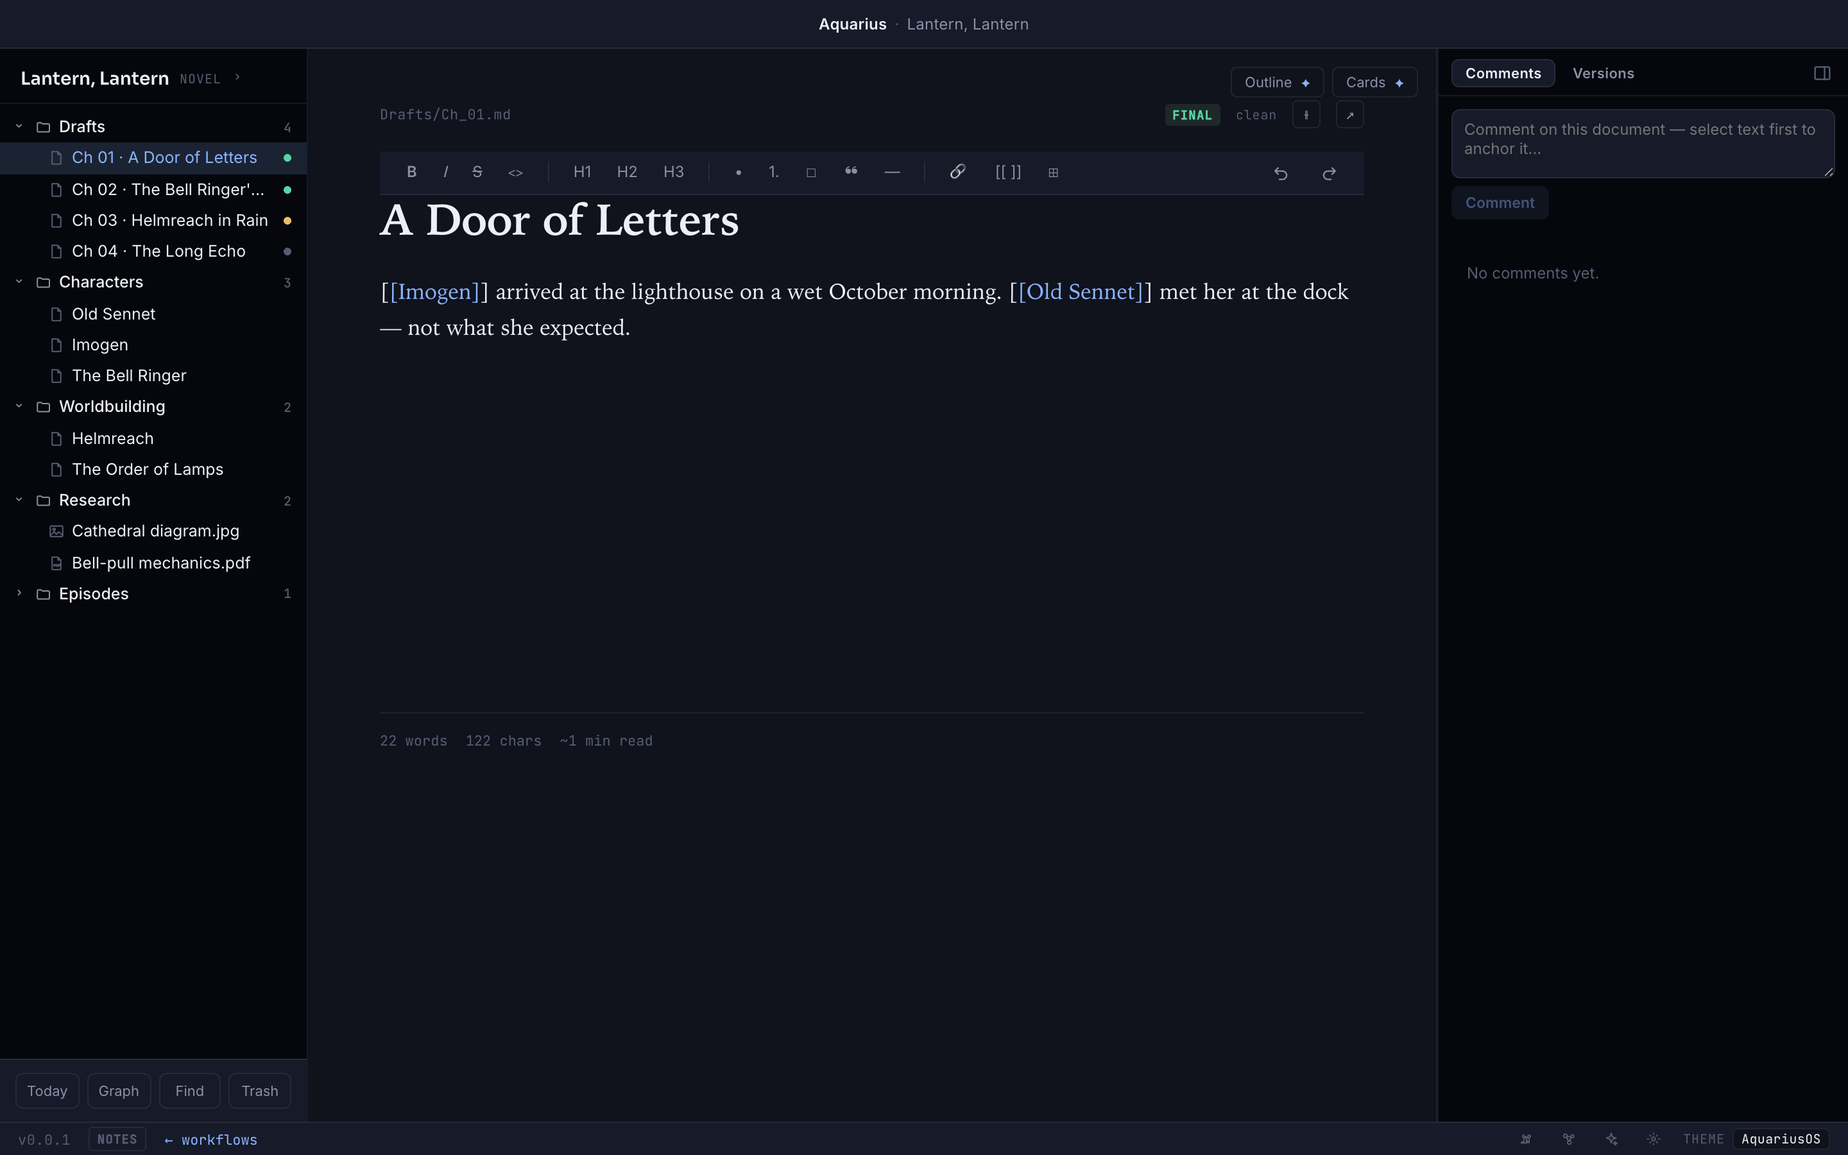
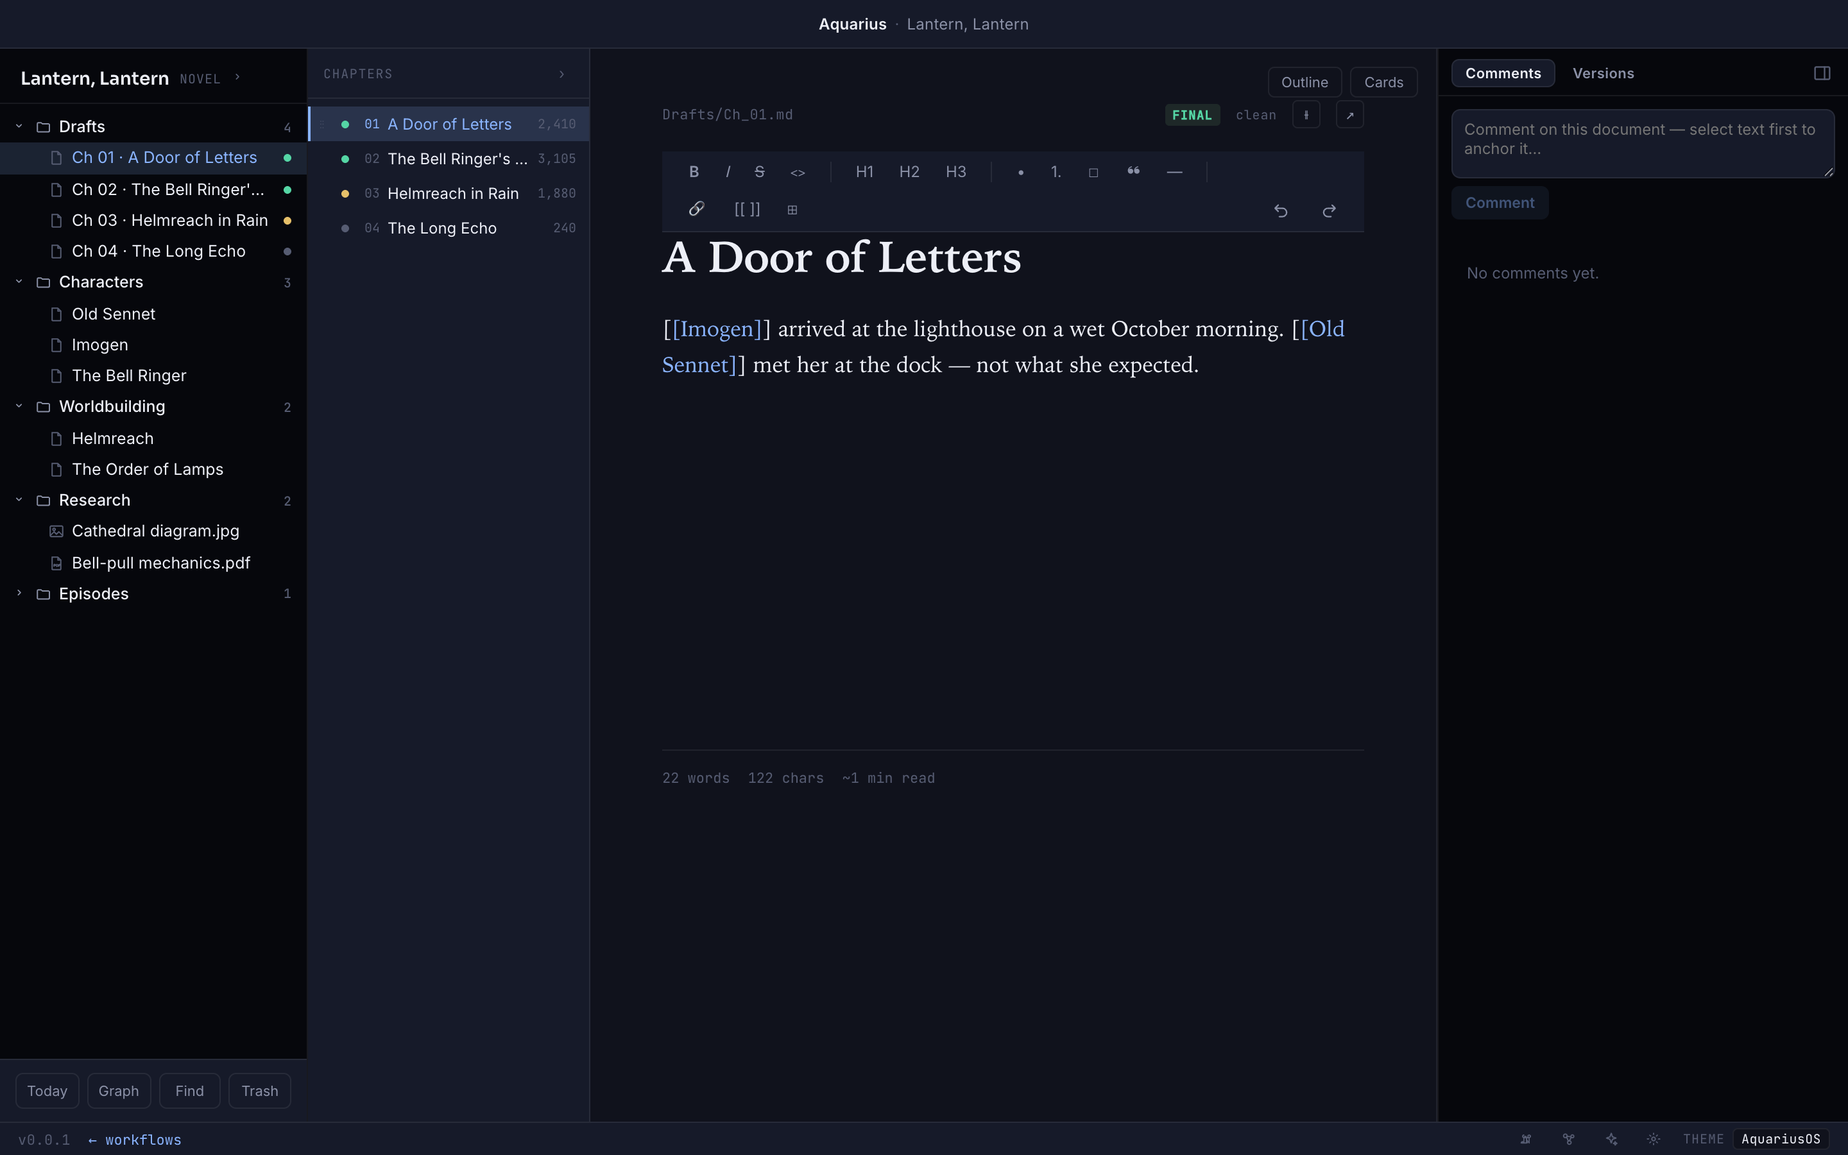
Write down what Stage 5 did, and take the shots that prove it
NOTES §13, in ten parts: both of Royce's decisions and exactly what came
out for each; why rmcp rather than a hand-rolled server, with the honest
cost (91 crates, MSRV 1.77 → 1.88); the port and, more importantly, why
a server with no password is safe *only* because it binds loopback, and
what has to happen first if that ever changes; why MCP writes announce
themselves instead of going through the watcher; the ledger bug this
stage exposed; search implemented as a mirror rather than skipped, and
the parity that now obliges; the doctrine; and what is left.

HANDOFF.md is untouched, as always.

The README gets a section written for someone who has never heard of
MCP: what the door is, the one line that opens it, why a server with no
password is not a hole, and what to do when it doesn't connect.

Screenshots re-taken post-removal, plus two new ones the script now
takes: Compile with every format selectable and no "✦ Studio" marks, and
the Settings nav with MCP where Pricing used to be.

Changed region(s): [[0.1562, 0.0622, 0.7188, 0.3422], [0.0625, 0.9644, 0.125, 0.9956], [0.6875, 0.0622, 0.7188, 0.0933]]

diff --git a/docs/NOTES.md b/docs/NOTES.md
@@ -4,7 +4,7 @@
 byte-for-byte as delivered. It is never edited. When reality has moved on from
 what it says, the discrepancy is recorded here instead.
 
-Last reviewed: 2026-08-25 (Stage 4 of the Linux port — identity + packaging).
+Last reviewed: 2026-08-25 (Stage 5 — the MCP server, and two features removed).
 
 ---
 
@@ -512,3 +512,216 @@ the controls draw and do nothing, which is what makes the screenshot possible.
 - **No signing, notarisation, updater or Releases.** All four need Royce's Apple
   account or a signing key. The TODO block at the end of
   `.github/workflows/build.yml` says what each would take.
+
+## 13. Stage 5's two removals, and what replaced them
+
+Royce made two calls on 2026-08-25 and this stage implemented both. They are
+recorded here rather than in `HANDOFF.md`, which is never edited.
+
+### 13a. No pricing. The app is free.
+
+**HANDOFF.md §9.2** describes three tiers: Notes (free), Studio ($50 once), and
+Spark ($5/month). All of it is gone. Every feature is simply available.
+
+Removed: `src/components/pricing/` (`UnlockDialog.tsx`, `SparkSetup.tsx`,
+`Pricing.css`), `src/state/licenseStore.ts`, the Settings **Pricing** tab, the
+tier badge in the window footer, the `✦` lock marks on Outline and Cards, the
+gate in front of the screenplay editor, the `tier` field and Studio badges on
+the compile formats, and the `.lic-badge` / `.pr-*` / `.ul-*` / `.mw-lock` CSS
+that dressed them. Six files deleted, eight edited.
+
+Three consequences worth stating plainly, because they are behaviour changes
+rather than cosmetic ones:
+
+- **The chapter rail is always in the prose editor.** It used to appear only on
+  Studio.
+- **`.fountain` files open in the screenplay editor** rather than in an unlock
+  pitch.
+- **EPUB, Word and FDX are selectable in Compile.** They are still not
+  *implemented* — Compile has never actually exported anything — but they are no
+  longer marked as something to buy. The remaining greyed-out cards in that
+  dialog are source-kind mismatches ("Not available for manuscript"), which is a
+  different thing and is correct.
+
+**Old persisted state.** A tier saved in `localStorage` under `aquarius.license`
+is not migrated and not deleted: nothing reads that key any more, so a stale
+value simply sits there inertly. Deliberate — a cleanup pass would be one more
+code path to own forever, for a key nobody will look at again.
+
+**What "spark" still means in this tree.** `SparkleIcon` in `src/icons/glyphs.tsx`
+is a four-point star used by the Today and Compile palette entries, and
+`spark14` / `.td-spark` in the Today panel is a *sparkline*. Neither has anything
+to do with Spark the agent, and a grep for the word will find them.
+
+### 13b. No embedded AI. The app is driven over MCP instead.
+
+The original Stage 5 plan was a bundled Ollama, a provider router and the Spark
+panel. It is dead. The app will not talk to a model itself; it exposes an **MCP
+server** so Claude Code, Claude Desktop or whatever comes next can drive it.
+
+Removed: the (already-empty) `src/components/ai-panel/`, `SparkSetup.tsx` with
+its model download and persona picker, the dead `.mw-ai-*` panel CSS, the
+`--spark-bubble` / `--spark-bubble-ink` chat-bubble tokens in all three themes,
+the now-unreferenced `--panel` token, and the cheat sheet's whole **AI** section
+plus its "Toggle Spark panel" row — five shortcuts that opened nothing.
+
+**The Terminal pane does not exist in this tree.** The port plan says it stays,
+and `RightPane.tsx` carried a comment implying it had been considered and cut
+before this repo existed. There is no xterm.js host, no dependency, no
+component — nothing to keep and, per the stage brief, nothing to build here.
+Whoever builds it later gets the BYO-agent story the plan describes, and it
+pairs with the MCP server rather than competing with it.
+
+### 13c. Why rmcp rather than a hand-rolled JSON-RPC server
+
+The stage brief allowed either. We took the SDK.
+
+`rmcp` 3.1.4's `transport-streamable-http-server` feature gives a
+`StreamableHttpService` that implements `tower::Service`, so hosting it is a
+fifteen-line axum router over a plain `TcpListener` — the awkwardness the brief
+worried about did not materialise. What we would have owned by hand instead:
+session lifecycle, protocol-version negotiation across five known versions,
+`Host`-header validation against DNS rebinding, SSE framing, and re-owning all
+of it every time the spec moves. That is a lot of surface for a local tool.
+
+The cost is real and worth naming: **91 new crates** in the dependency tree
+(axum, hyper, tower, schemars, sse-stream and their friends), and the crate's
+MSRV forced `rust-version` in `Cargo.toml` from 1.77 to **1.88**. CI uses
+`dtolnay/rust-toolchain@stable`, so nothing there needed changing. A clean
+release build is roughly 20 seconds longer.
+
+**We left rmcp's transport defaults alone**, including SSE framing and session
+mode. The SDK also offers `json_response`, which would answer a tool call with
+plain `application/json` — every tool here is request-in/response-out, so
+nothing would be lost, and it is friendlier to a hand-written client. It was
+tried and reverted: it only applies with `legacy_session_mode` off, and trading
+the SDK's best-tested path for a tidier reply is not a bet to make against
+clients we cannot test here. The MCP spec requires clients to accept both
+framings. If a client ever turns out to need JSON, the change is two lines in
+`mcp::start`.
+
+### 13d. The port, and the security posture
+
+**1729.** Clear of 1420 (this app's own Vite dev server), 5173 and 4173 (Vite's
+other defaults), 4747 (Miracle OS's HUD on Royce's Mac), and the usual
+3000/8000/8080. Configurable in Settings; ports below 1024 and 1420 itself are
+refused.
+
+The listener binds `127.0.0.1` explicitly — verified during Stage 5 with `lsof`
+(`TCP 127.0.0.1:1729 (LISTEN)`, IPv4 loopback only) and by confirming that the
+machine's own LAN address refuses the connection.
+
+**There is no authentication, and that is only safe because of the bind.**
+Anything that can reach the socket is a process on this machine running as this
+user, which can already read the vault directly, so a token would protect
+nothing. **If this is ever bound to any other interface — a `0.0.0.0` default, a
+container port mapping, a tunnel — it needs a bearer token first.** That is not
+a nice-to-have; without the loopback bind, the current server hands the whole
+vault to anyone who can route to the port.
+
+### 13e. Why MCP writes emit `vault://changed` themselves
+
+§3c says any code that writes into a vault outside `vault_write_file` must call
+`state.note_self_write()` first. The MCP tools do. But that has a consequence
+the UI's own saves do not have: the watcher then *deliberately ignores* the
+write, so the open window would never learn that a client had changed a file.
+
+So the tools emit `commands::CHANGE_EVENT` explicitly, once per call, right
+after the write. This is better than the alternative of leaving the write
+unstamped and letting the watcher notice: exactly one event, no 300 ms debounce
+race, and no possibility of the reload loop the ledger exists to prevent.
+
+Verified during Stage 5: seven MCP writes against a scratch vault produced
+**zero** `[watch]` lines with `AQ_WATCH_DEBUG=1`, while a control edit made by a
+different program produced exactly one. The watcher is alive; the suppression is
+specific.
+
+### 13f. A ledger bug the MCP server exposed
+
+`SelfWrites` canonicalises paths so the stamp and the event agree on one
+spelling (§3c). It did that by asking the filesystem to resolve the path — but
+the ledger is stamped *before* the write, and a brand-new file has no inode yet,
+nor does the folder the write is about to create. So a create stamped `/var/…`
+and the event came back `/private/var/…`, never matched, and a file the app made
+itself looked like an external edit.
+
+Nothing hit this before because nothing in the app could create a file — the
+renderer's `VaultService` has no create method (§8). `create_document` does.
+`canonical()` now walks up to the nearest ancestor that exists, canonicalises
+that, and re-attaches the tail. The mirror-image case is fixed with it: a delete
+is checked *after* the file is gone and used to fall back to the literal path
+too. Regression test:
+`fs_ops::watcher::tests::a_path_stamped_before_it_exists_still_matches_its_event`.
+
+### 13g. Search is a mirror, not a gap
+
+The stage brief said to skip `search` if it lived only in the renderer and note
+the gap. It does live only in the renderer — `searchWorkflow` in
+`src/lib/vault/aux.ts` — and we implemented it in Rust anyway
+(`src-tauri/src/vault/search.rs`). Flagging that as a deliberate deviation.
+
+The reasoning: search is the single most useful thing an AI client can do before
+it edits anything, the renderer's version is thirty lines of fully-specified
+behaviour (case-insensitive substring, markdown/fountain/txt only, ranked by
+count), and the alternative — a client reading every file through
+`read_document` to grep it itself — is worse for everyone. This repo already has
+the precedent: `vault::frontmatter` is explicitly a mirror of
+`src/lib/frontmatter.ts`.
+
+**The parity obligation is real.** If either side's search behaviour changes,
+change the other in the same commit. The same now applies to
+`frontmatter::upsert`, which is new in this stage and mirrors the TypeScript
+`stringify`.
+
+### 13h. `reorder_chapters` is the first thing that ever persists chapter order
+
+`vaultStore.reorderChapters` in the renderer updates React state and stops
+there — dragging a chapter in the UI has never written `workflow.json`. The MCP
+tool does, through `vault::ops::reorder_chapters`.
+
+So the two are not yet symmetrical, and this is the one place the doctrine in
+§13i is not fully honoured in the direction you would expect: the *client* can
+do something durably that the *human* cannot. Wiring the UI's drag to the same
+`ops` function is a small job and is the obvious next one.
+
+### 13i. The doctrine, written down
+
+The old Spark-drivability rule (AquariusWriter's CLAUDE.md rule 11) is
+reinterpreted for this app:
+
+> **If a human can do it in the app, an MCP client can do it too. New
+> user-facing features ship with their MCP tool in the same change.**
+
+Concretely: a feature that touches a vault belongs in `src-tauri/src/vault/ops.rs`,
+where both doors reach it — `commands.rs` for the renderer, `mcp/tools.rs` for a
+client. A tool that needs behaviour `ops` does not have is a sign the feature was
+built in the wrong place, not a reason to reimplement it in `mcp/`.
+
+The one deliberate exception is **permanent deletion**. `trash::purge` stays a
+UI-only operation. Everything a client can destroy, it can also restore.
+
+### 13j. What Stage 5 left for later
+
+- **The Terminal pane** (§13b) — not built, by instruction.
+- **The UI's chapter drag does not persist** (§13h).
+- **Snapshots are read-only over MCP, and a client's write does not take one.**
+  The version trail is written by the editor's autosave; a `write_document` call
+  replaces a file without recording what was there first. A client can read the
+  old text and say so, but "undo the AI's edit" is not one click. Taking a
+  snapshot inside `ops::write_document` would fix it and would also start
+  recording versions for the UI's own path in a way it does not expect — worth
+  designing rather than bolting on.
+- **`claude mcp add` was not actually run.** The `initialize` result was checked
+  against the spec shape by hand (`protocolVersion`, `capabilities.tools`,
+  `serverInfo`, `instructions`) and all fifteen tools were driven end-to-end
+  with raw JSON-RPC, but registering the server in Royce's real Claude Code
+  config is his change to make, not an agent's.
+- **The live MCP Settings panel is not in the screenshots.** The switch and the
+  `claude mcp add` line only render inside the desktop shell, and the shell's
+  window cannot be driven headlessly from a Mac. `docs/screenshots/*/07-settings-mcp.png`
+  shows the tab and the preview's explanatory message; the raw MCP exchange is
+  the evidence for what sits behind the switch.
+- **Nothing about the server has run on Linux**, like everything else in §10.
+  The bind is `Ipv4Addr::LOCALHOST` and the transport is portable, so there is
+  nothing platform-specific to go wrong — but that sentence has been written
+  about four stages now.

diff --git a/README.md b/README.md
@@ -7,6 +7,14 @@ copy to a thumb drive. No cloud account, no database, no lock-in.
 This is the app that ships with **AquariusOS** as its stock writing/vault app —
 the slot Obsidian would fill on someone else's system.
 
+**It is free.** There are no tiers, no unlock screens and nothing held back —
+every feature in the app is available to everyone who runs it.
+
+**It has no AI of its own.** Instead it can hand the vault to whichever AI app
+you already use — Claude Code, Claude Desktop — over MCP. Flip one switch in
+Settings and they can read, write, re-order and file your work, using the same
+operations you have in the window. See "Letting an AI app drive it" below.
+
 ---
 
 ## Where this came from (read this once)
@@ -126,7 +134,7 @@ This can only ever build the *Mac* app. For the Linux one, see below.
 
 - The full UI exists — sidebar and vault tree, the prose editor, the note editor,
   the screenplay (Fountain) editor, manuscript outline and corkboard, PDF and
-  image viewers, the Spark panel, command palette, settings, pricing dialogs.
+  image viewers, the command palette and settings.
 - The **desktop app reads and writes actual files.** Point it at a folder and it
   becomes a vault: it writes `.aquarius/workflow.json`, walks the folder into the
   sidebar, saves your edits, keeps version history, moves deletions to a trash
@@ -139,8 +147,11 @@ This can only ever build the *Mac* app. For the Linux one, see below.
   bar, and unlike macOS (where the system floats its traffic lights over ours)
   nothing on Linux would draw them for us. On the Mac nothing changed at all.
 
-What is *not* done yet: Spark, the local AI (Stage 5). And nothing here has ever
-actually run on Linux — see "Building the Linux app" below.
+- The **MCP server** is in and switched off until you want it (Settings → MCP).
+  On, an AI app on this machine can drive the vault.
+
+What is *not* done yet: nothing here has ever actually run on Linux — see
+"Building the Linux app" below.
 
 ### Opening a folder
 
@@ -181,6 +192,77 @@ pass over every backend operation (`src/lib/dev/smoke.ts`) and prints the result
 in the terminal — useful for proving the backend still works after a change.
 **That pass edits and deletes files in the folder it is given, so point it at a
 scratch copy, never at real writing.** Both are development-only.
+
+---
+
+## Letting an AI app drive it
+
+Aquarius Writer has no AI inside it, and that is on purpose. Instead it can open
+a small door on your own machine that AI apps know how to knock on — a standard
+called **MCP**. Turn it on and Claude Code (or Claude Desktop, or anything else
+that speaks MCP) can read your chapters, rewrite them, re-order your manuscript,
+set a chapter's status and put a draft in the trash — the same things you can do
+in the window, done through the same code.
+
+### Turning it on
+
+1. Open **Settings** (⌘,) and click **MCP**.
+2. Flick the switch to **On**. A green "listening" dot appears.
+3. Copy the line it shows you and paste it into a terminal once:
+
+   ```bash
+   claude mcp add --transport http aquarius-writer http://127.0.0.1:1729/mcp
+   ```
+
+That is the whole setup. Claude Code remembers it from then on. **Aquarius
+Writer has to be running** for the connection to work — the door is in the app,
+so when the app is closed there is no door.
+
+If you change the port in Settings, the URL changes with it and you would run
+`claude mcp add` again with the new number.
+
+### Is that safe?
+
+The door only opens onto *this computer*. In network terms the app listens on
+`127.0.0.1`, which is the address a machine uses to talk to itself — another
+computer on your wifi cannot reach it, and neither can anything on the internet.
+That is why there is no password: the only things that can knock are programs
+already running as you, which could open your files directly anyway.
+
+Two more things worth knowing:
+
+- **Nothing can permanently delete your work through it.** The only delete an AI
+  client has is the same one the app's Trash button uses: the file moves into
+  `.aquarius/trash/` and can be restored for 30 days.
+- **It is off unless you turn it on**, and it stays however you left it the next
+  time you open the app.
+
+### What it can do
+
+Fifteen operations, and the rule going forward is that this list keeps pace with
+the app: **if you can do it in the window, an AI client can do it too.**
+
+| | |
+|---|---|
+| `list_workflows`, `get_workflow` | which vaults exist; one vault's manifest and file tree |
+| `list_folder`, `search` | look around; find text across the vault |
+| `read_document`, `write_document`, `create_document` | read a file, replace one, make a new one |
+| `set_frontmatter_status` | mark a chapter final / drafting / rev / outline |
+| `reorder_chapters` | rearrange the manuscript |
+| `trash_document`, `list_trash`, `restore_document` | the reversible delete, and undoing it |
+| `list_snapshots`, `read_snapshot` | read the version history (read-only) |
+| `server_info` | a connectivity check |
+
+### If something goes wrong
+
+- **The switch turns itself back off, or shows an error.** Almost always the port
+  is already taken by something else. Pick a different number in Settings.
+- **Claude Code says it cannot connect.** Check the app is actually open and the
+  dot in Settings says "listening".
+- **You changed a file through Claude and the app is showing the old text.** The
+  sidebar and the tree update immediately, but a document you had *open and
+  half-edited* keeps your unsaved text, and your next save wins. Close the
+  document (or save it) before handing it to an AI client.
 
 ---
 
@@ -279,7 +361,7 @@ From `AquariusOS/docs/aquarius-writer-port-plan.md`:
 | **2** | **The Rust vault backend.** Implement the 9 file operations for real: open a folder, walk the tree, read/write files with safe atomic saves, soft-delete to trash, watch for outside edits. Move version history / comments / trash off browser storage and onto disk in `.aquarius/`. | ✅ **done** |
 | **3** | **The AquariusOS skin.** A third theme matching the OS design tokens, with the Sora / Inter / JetBrains Mono fonts bundled. Default on Linux; Parchment stays default on macOS. | ✅ **done** |
 | **4** | **Linux identity + packaging.** Draw our own window buttons on Linux, app id `os.aquarius.writer`, desktop entry and icons, AppImage built by CI. | ✅ **done** (the AppImage waits on the GitHub repo — see below) |
-| **5** | **Spark on Linux.** Local model lifecycle (Ollama is Linux-native), provider routing, and the rule that every feature is drivable by Spark. | next |
+| **5** | **MCP server, and no embedded AI.** Royce decided on 2026-08-25 that the app will not carry a model of its own and will not have paid tiers. So: the pricing plumbing and the Spark UI came out, and the app now speaks MCP on localhost so any AI app can drive it. | ✅ **done** |
 
 ---
 
@@ -299,6 +381,8 @@ src-tauri/               the desktop shell (Rust)
   src/lib.rs             app setup + the list of commands the UI can call
   src/commands.rs        every invoke() the interface makes, in one file
   src/vault/             workflow registry, workflow.json, the folder walk
+  src/vault/ops.rs       the operations the UI and the MCP server both use
+  src/mcp/               the MCP server: the switch, and the 15 tools
   src/fs_ops/            saving, trash + retention, the file watcher
   src/aux_store.rs       version history / comments / searches in .aquarius/
   capabilities/          what the app is permitted to do (kept deliberately tiny)
